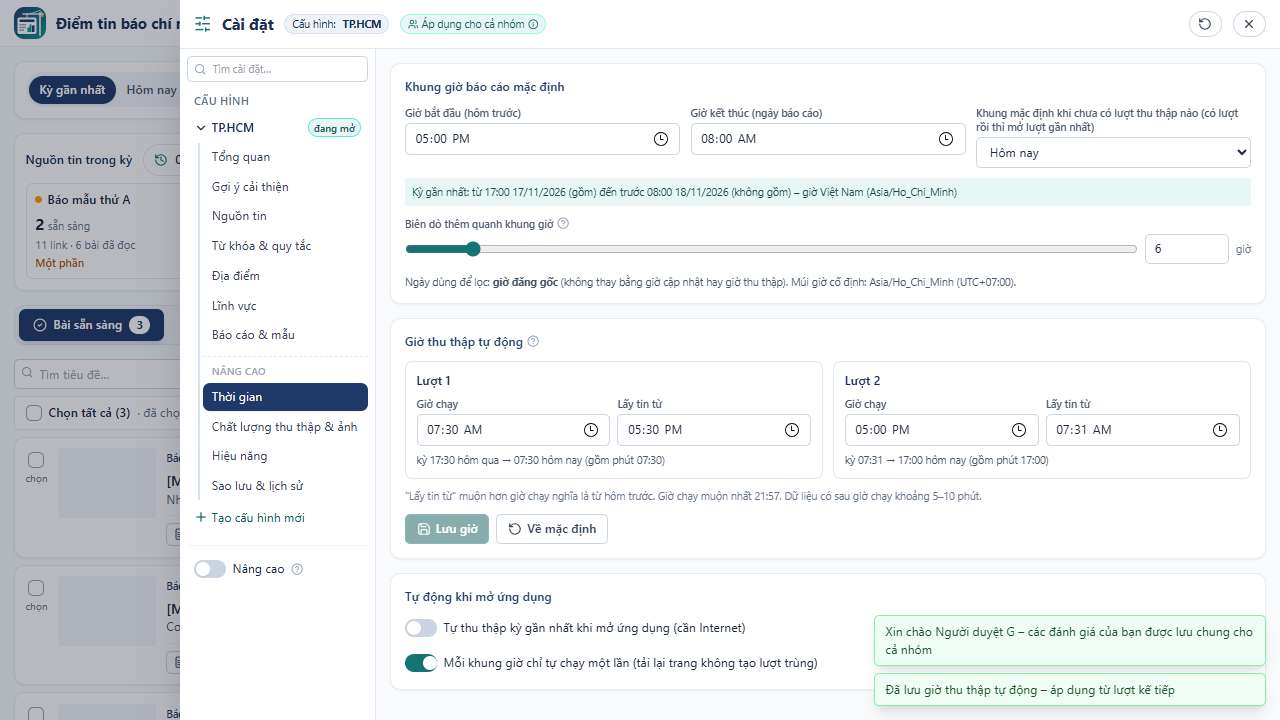
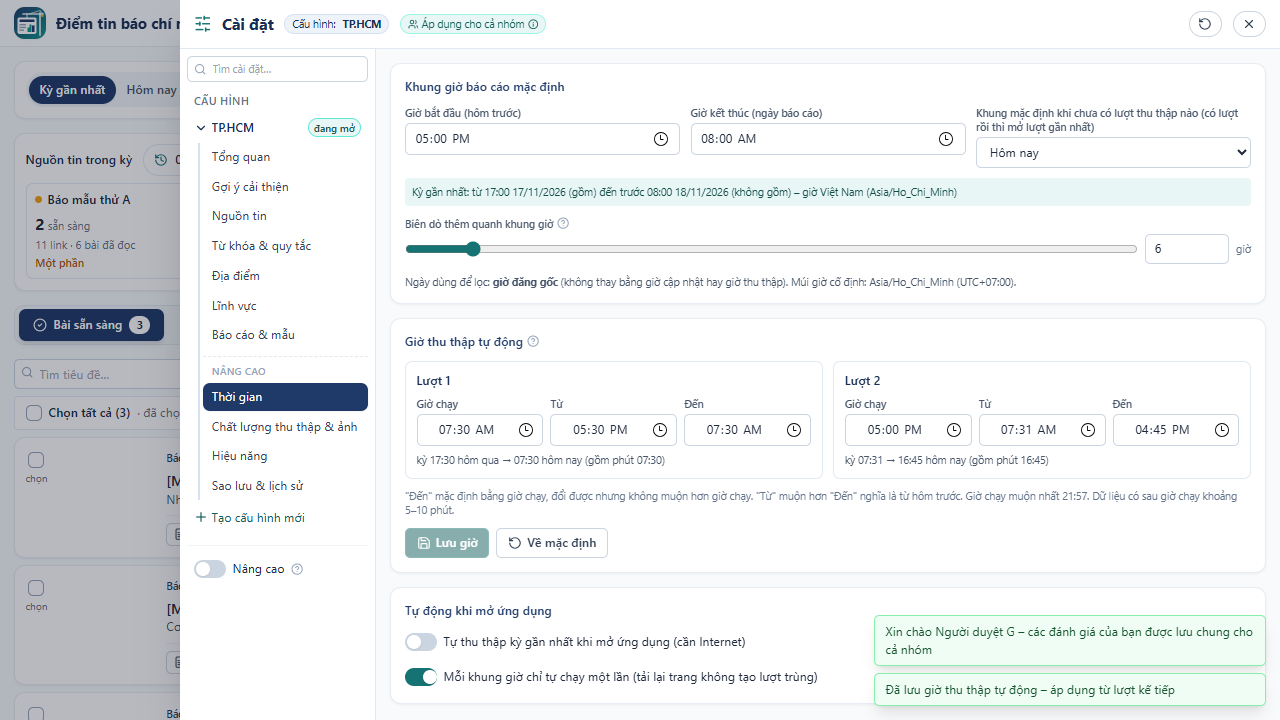
Automatic times: own "Đến" (window end, follows the run time until changed); clearer "Đổi giờ" button; fields fit on a phone

diff --git a/web/src/Settings.tsx b/web/src/Settings.tsx
@@ -660,12 +660,14 @@ function TimePanel({ s, up }: { s: Settings; up: Up }) {
 function ScheduleTimesSection() {
   const shared = api.shared!;
   const toast = useToast();
-  const [times, setTimes] = useState<Record<ScheduleSlotId, { at: string; from: string }> | null>(null);
+  type T = { at: string; from: string; to: string };
+  const [times, setTimes] = useState<Record<ScheduleSlotId, T> | null>(null);
   const [saved, setSaved] = useState('');
   const [busy, setBusy] = useState(false);
   const [err, setErr] = useState('');
   const fromProfile = (st?: ScheduleTimes) => {
-    const v = Object.fromEntries(slotsFor(st).map((s) => [s.id, { at: s.at, from: s.from.time }])) as Record<ScheduleSlotId, { at: string; from: string }>;
+    // "Đến" shows the stored end, else the run time (the default afternoon window ends at 16:30 too)
+    const v = Object.fromEntries(slotsFor(st).map((s) => [s.id, { at: s.at, from: s.from.time, to: st?.[s.id]?.to || s.at }])) as Record<ScheduleSlotId, T>;
     setTimes(v);
     setSaved(JSON.stringify(v));
   };
@@ -689,22 +691,35 @@ function ScheduleTimesSection() {
       setBusy(false);
     }
   };
-  const isDefault = SCHEDULE_SLOTS.every((d) => times[d.id].at === d.at && times[d.id].from === d.from.time);
+  const isDefault = SCHEDULE_SLOTS.every((d) => times[d.id].at === d.at && times[d.id].from === d.from.time && times[d.id].to === d.at);
+  const set = (id: ScheduleSlotId, k: keyof T, v: string) => {
+    const cur = times[id];
+    // "Đến" follows the run time until it is changed by hand
+    setTimes({ ...times, [id]: k === 'at' && cur.to === cur.at ? { ...cur, at: v, to: v } : { ...cur, [k]: v } });
+  };
+  const timeField = (id: ScheduleSlotId, k: keyof T, label: string) => (
+    <label className="block min-w-0">
+      <span className="mb-1 block text-xs font-medium text-slate-600">{label}</span>
+      <input className="input w-full min-w-0 px-2 text-center" type="time" aria-label={`${SLOT_NAMES[id]} – ${label.toLowerCase()}`} value={times[id][k]} max={k === 'at' ? LATEST_RUN : undefined} onChange={(e) => set(id, k, e.target.value)} />
+    </label>
+  );
   return (
     <Section title="Giờ thu thập tự động" help="Máy chủ tự thu thập vào các giờ này cho cấu hình đang chọn (bật/tắt từng lượt bằng công tắc Tự động ở trang chính). Áp dụng cho cả nhóm.">
-      <div className="grid gap-3 md:grid-cols-2" data-testid="schedule-times">
+      <div className="grid gap-3 lg:grid-cols-2" data-testid="schedule-times">
         {SCHEDULE_SLOTS.map((d, i) => (
-          <div key={d.id} className="rounded-lg border border-slate-200 bg-white p-3">
+          <div key={d.id} className="min-w-0 rounded-lg border border-slate-200 bg-white p-3">
             <div className="mb-2 text-sm font-semibold text-navy-800">{SLOT_NAMES[d.id]}</div>
-            <div className="grid grid-cols-2 gap-2">
-              <Field label="Giờ chạy"><input className="input" type="time" aria-label={`${SLOT_NAMES[d.id]} – giờ chạy`} value={times[d.id].at} max={LATEST_RUN} onChange={(e) => setTimes({ ...times, [d.id]: { ...times[d.id], at: e.target.value } })} /></Field>
-              <Field label="Lấy tin từ"><input className="input" type="time" aria-label={`${SLOT_NAMES[d.id]} – lấy tin từ`} value={times[d.id].from} onChange={(e) => setTimes({ ...times, [d.id]: { ...times[d.id], from: e.target.value } })} /></Field>
+            {/* one row when there is room, one field per row on a phone */}
+            <div className="grid grid-cols-[repeat(auto-fit,minmax(7.5rem,1fr))] gap-2">
+              {timeField(d.id, 'at', 'Giờ chạy')}
+              {timeField(d.id, 'from', 'Từ')}
+              {timeField(d.id, 'to', 'Đến')}
             </div>
             <p className="mt-2 text-xs text-slate-600">{preview[i]!.label}</p>
           </div>
         ))}
       </div>
-      {problem ? <p className="text-xs text-red-700">{problem}</p> : <p className="text-xs text-slate-500">"Lấy tin từ" muộn hơn giờ chạy nghĩa là từ hôm trước. Giờ chạy muộn nhất {LATEST_RUN}. Dữ liệu có sau giờ chạy khoảng 5–10 phút.</p>}
+      {problem ? <p className="text-xs text-red-700">{problem}</p> : <p className="text-xs text-slate-500">"Đến" mặc định bằng giờ chạy, đổi được nhưng không muộn hơn giờ chạy. "Từ" muộn hơn "Đến" nghĩa là từ hôm trước. Giờ chạy muộn nhất {LATEST_RUN}. Dữ liệu có sau giờ chạy khoảng 5–10 phút.</p>}
       <div className="flex flex-wrap gap-2">
         <button className="btn-teal" disabled={busy || !!problem || JSON.stringify(times) === saved} onClick={() => void save(times)}>
           <Save className="h-4 w-4" /> {busy ? 'Đang lưu…' : 'Lưu giờ'}

diff --git a/tests/ui-live/review.spec.ts b/tests/ui-live/review.spec.ts
@@ -117,23 +117,41 @@ test('automatic times are changed in Settings (not fixed at 08:00 / 16:30), show
   const box = dlg.getByTestId('schedule-times');
   await expect(box.getByLabel('Lượt 1 – giờ chạy')).toHaveValue('08:00');
   await box.getByLabel('Lượt 1 – giờ chạy').fill('07:30');
-  await box.getByLabel('Lượt 1 – lấy tin từ').fill('17:30');
+  await expect(box.getByLabel('Lượt 1 – đến')).toHaveValue('07:30'); // "Đến" follows the run time
+  await box.getByLabel('Lượt 1 – từ').fill('17:30');
   await box.getByLabel('Lượt 2 – giờ chạy').fill('17:00');
-  await box.getByLabel('Lượt 2 – lấy tin từ').fill('07:31');
+  await box.getByLabel('Lượt 2 – từ').fill('07:31');
+  await box.getByLabel('Lượt 2 – đến').fill('16:45'); // changed by hand
   await expect(box).toContainText('kỳ 17:30 hôm qua → 07:30 hôm nay');
+  await expect(box).toContainText('kỳ 07:31 → 16:45 hôm nay (gồm phút 16:45)');
+  await box.getByLabel('Lượt 2 – đến').fill('17:30');
+  await expect(dlg.getByText(/"Đến" không được muộn hơn giờ chạy/)).toBeVisible();
+  await box.getByLabel('Lượt 2 – đến').fill('16:45');
   // invalid: same run time → save disabled with the reason
-  await box.getByLabel('Lượt 2 – giờ chạy').fill('07:30');
+  await box.getByLabel('Lượt 1 – giờ chạy').fill('17:00'); // its "Đến" follows (still untouched)
   await expect(dlg.getByText('Hai lượt không được trùng giờ chạy')).toBeVisible();
   await expect(dlg.getByRole('button', { name: 'Lưu giờ' })).toBeDisabled();
-  await box.getByLabel('Lượt 2 – giờ chạy').fill('17:00');
+  await box.getByLabel('Lượt 1 – giờ chạy').fill('07:30');
+  await expect(box.getByLabel('Lượt 1 – đến')).toHaveValue('07:30');
   await dlg.getByRole('button', { name: 'Lưu giờ' }).click();
   await expect(page.getByText(/Đã lưu giờ thu thập tự động/)).toBeVisible();
   const st = await (await request.get('http://127.0.0.1:5181/status')).json();
-  expect(st.profiles.find((p: { id: string }) => p.id === 'hcm').scheduleTimes).toEqual({ morning: { at: '07:30', from: '17:30' }, afternoon: { at: '17:00', from: '07:31' } });
+  expect(st.profiles.find((p: { id: string }) => p.id === 'hcm').scheduleTimes).toEqual({ morning: { at: '07:30', from: '17:30' }, afternoon: { at: '17:00', from: '07:31', to: '16:45' } });
   await page.screenshot({ path: 'docs/screenshots/web-schedule-times.png' });
+  // phone: the three time fields fit inside each card
+  await page.setViewportSize({ width: 390, height: 844 });
+  for (const b of await box.locator('input[type=time]').all()) {
+    const r = (await b.boundingBox())!;
+    const card = (await box.boundingBox())!;
+    expect(r.x + r.width).toBeLessThanOrEqual(card.x + card.width + 1);
+  }
+  await box.scrollIntoViewIfNeeded();
+  await box.screenshot({ path: 'docs/screenshots/web-schedule-times-phone.png' });
+  await page.setViewportSize({ width: 1280, height: 720 });
   await dlg.getByRole('button', { name: 'Đóng cài đặt' }).click();
   await expect(strip.getByLabel('Tự động lúc 07:30')).toBeVisible();
   await expect(strip.getByLabel('Tự động lúc 17:00')).toBeVisible();
+  await strip.screenshot({ path: 'docs/screenshots/web-edit-times-button.png' });
   // back to the defaults
   await strip.getByTestId('edit-times').click();
   await dlg.getByRole('button', { name: 'Về mặc định' }).click();

diff --git a/src/domain/schedule.ts b/src/domain/schedule.ts
@@ -25,8 +25,11 @@ export const SCHEDULE_SLOTS: readonly ScheduleSlot[] = [
 ];
 export const SLOT_NAMES: Record<ScheduleSlotId, string> = { morning: 'Lượt 1', afternoon: 'Lượt 2' };
 export type ScheduleState = Partial<Record<ScheduleSlotId, boolean>>;
-/** times changed in Settings: run time + start of the window (the window ends at the run time, minute included) */
-export type ScheduleTimes = Partial<Record<ScheduleSlotId, { at: string; from: string }>>;
+/**
+ * times changed in Settings: run time + window start + window end ("Đến", minute included; unset = the run time).
+ * The start is on the day before when it is not earlier than the end.
+ */
+export type ScheduleTimes = Partial<Record<ScheduleSlotId, { at: string; from: string; to?: string }>>;
 
 const VN_MS = 7 * 3600_000;
 const HHMM = /^([01]\d|2[0-3]):[0-5]\d$/;
@@ -39,12 +42,14 @@ export const LATEST_RUN = '21:57';
 export function slotsFor(times?: ScheduleTimes | null): ScheduleSlot[] {
   return SCHEDULE_SLOTS.map((d) => {
     const t = times?.[d.id];
-    if (!t || (t.at === d.at && t.from === d.from.time)) return d;
-    const fromDay = minutesOf(t.from) >= minutesOf(t.at) ? -1 : 0;
-    const toM = minutesOf(t.at) + 1; // the run minute is included, like the default 08:00 window
+    if (!t) return d;
+    const end = t.to || t.at;
+    if (t.at === d.at && t.from === d.from.time && end === d.at) return d;
+    const fromDay = minutesOf(t.from) >= minutesOf(end) ? -1 : 0;
+    const toM = minutesOf(end) + 1; // the end minute is included, like the default 08:00 window
     return {
       id: d.id, at: t.at, from: { day: fromDay, time: t.from }, to: { day: 0, time: hhmmOf(toM) },
-      label: `kỳ ${t.from}${fromDay ? ' hôm qua' : ''} → ${t.at} hôm nay (gồm phút ${t.at})`,
+      label: `kỳ ${t.from}${fromDay ? ' hôm qua' : ''} → ${end} hôm nay (gồm phút ${end})`,
     };
   });
 }
@@ -55,9 +60,11 @@ export function validateTimes(times: ScheduleTimes): string | null {
   for (const d of SCHEDULE_SLOTS) {
     const t = times[d.id];
     if (!t) continue;
-    if (!HHMM.test(t.at) || !HHMM.test(t.from)) return `${SLOT_NAMES[d.id]}: giờ phải có dạng HH:mm`;
+    const end = t.to || t.at;
+    if (!HHMM.test(t.at) || !HHMM.test(t.from) || !HHMM.test(end)) return `${SLOT_NAMES[d.id]}: giờ phải có dạng HH:mm`;
     if (minutesOf(t.at) > minutesOf(LATEST_RUN)) return `${SLOT_NAMES[d.id]}: giờ chạy muộn nhất là ${LATEST_RUN}`;
-    if (t.at === t.from) return `${SLOT_NAMES[d.id]}: giờ bắt đầu kỳ phải khác giờ chạy`;
+    if (minutesOf(end) > minutesOf(t.at)) return `${SLOT_NAMES[d.id]}: "Đến" không được muộn hơn giờ chạy (lúc chạy chưa có tin đó)`;
+    if (end === t.from) return `${SLOT_NAMES[d.id]}: "Từ" phải khác "Đến"`;
     ats.push(t.at);
   }
   if (new Set(ats).size !== ats.length) return 'Hai lượt không được trùng giờ chạy';

diff --git a/web/src/App.tsx b/web/src/App.tsx
@@ -1,4 +1,4 @@
-import { Activity, AlarmClock, AlertTriangle, Archive, ArchiveRestore, HelpCircle, History, Lightbulb, ArrowDown, ArrowRight, ArrowUp, BarChart3, CalendarClock, Check, Inbox, LogIn, LogOut, MapPin, QrCode, CheckCircle2, ChevronDown, Download, ExternalLink, FileText, Play, RefreshCw, Search, Settings as Cog, Square, Trash2, Undo2, X } from 'lucide-react';
+import { Activity, AlarmClock, AlertTriangle, Archive, ArchiveRestore, HelpCircle, History, Lightbulb, ArrowDown, ArrowRight, ArrowUp, BarChart3, CalendarClock, Clock3, Check, Inbox, LogIn, LogOut, MapPin, QrCode, CheckCircle2, ChevronDown, Download, ExternalLink, FileText, Play, RefreshCw, Search, Settings as Cog, Square, Trash2, Undo2, X } from 'lucide-react';
 import { useCallback, useEffect, useMemo, useState, useRef, type ReactNode } from 'react';
 import { suggestAssignment } from '../../src/domain/assignment';
 import { ASSESSMENT_LABEL } from '../../src/domain/classify';
@@ -2338,8 +2338,14 @@ function ServerStrip({ server, profileId, remote, onToggle, onEditTimes }: { ser
         {slots.map((s) => (
           <Switch key={s.id} label={s.at} title={`${s.at} – ${s.label}`} ariaLabel={`Tự động lúc ${s.at}`} checked={!!prof?.schedule?.[s.id]} disabled={!server.collectEnabled} onChange={(on) => onToggle(s, on)} />
         ))}
-        <button type="button" className="text-xs font-medium text-teal-700 underline-offset-2 hover:underline" onClick={onEditTimes} data-testid="edit-times" title="Đổi giờ chạy và khung giờ lấy tin của từng lượt (Cài đặt › Thời gian)">
-          Đổi giờ
+        <button
+          type="button"
+          className="inline-flex min-h-[34px] items-center gap-1.5 rounded-full border border-teal-300 bg-teal-50 px-3.5 py-1.5 text-sm font-semibold text-teal-800 shadow-sm transition hover:border-teal-400 hover:bg-teal-100 active:scale-[0.97] focus:outline-none focus-visible:ring-2 focus-visible:ring-teal-400"
+          onClick={onEditTimes}
+          data-testid="edit-times"
+          title="Đổi giờ chạy và khung giờ lấy tin của từng lượt (Cài đặt › Thời gian)"
+        >
+          <Clock3 className="h-4 w-4" /> Đổi giờ
         </button>
       </div>
       <span className="text-xs text-slate-500" data-testid="auto-info" title={next ? 'Dữ liệu có sau khoảng 5–10 phút; máy chủ bận thì tự thử lại' : 'Chỉ thu thập khi có người bấm Thu thập'}>

diff --git a/tests/schedule.test.ts b/tests/schedule.test.ts
@@ -35,11 +35,21 @@ describe('times changed in Settings (19/11/2026)', () => {
     expect(dueSlots(at('2026-11-19T16:32'), s)).toEqual([]);
     expect(label(nextRun({ morning: true, afternoon: true }, at('2026-11-19T07:40'), ['morning'], s))).toBe('17:00 2026-11-19');
   });
+  it('"Đến" changed by hand: the window ends there (minute included), the run time stays', () => {
+    const s = slotsFor({ afternoon: { at: '16:00', from: '08:05', to: '15:45' } });
+    expect(s[1]).toMatchObject({ at: '16:00', label: 'kỳ 08:05 → 15:45 hôm nay (gồm phút 15:45)' });
+    expect(slotWindow(s[1]!, at('2026-11-19T16:05'))).toEqual({ from: '2026-11-19T08:05+07:00', to: '2026-11-19T15:46+07:00' });
+    // "Từ" later than "Đến" → yesterday
+    expect(slotWindow(slotsFor({ morning: { at: '08:00', from: '16:05', to: '07:30' } })[0]!, at('2026-11-19T08:05')).from).toBe('2026-11-18T16:05+07:00');
+    expect(slotsFor({ morning: { at: '08:00', from: '17:00', to: '08:00' } })).toEqual(SCHEDULE_SLOTS);
+    expect(validateTimes({ afternoon: { at: '16:00', from: '08:05', to: '16:30' } })).toMatch(/không được muộn hơn giờ chạy/);
+    expect(validateTimes({ afternoon: { at: '16:00', from: '15:00', to: '15:00' } })).toMatch(/"Từ" phải khác "Đến"/);
+  });
   it('validation', () => {
     expect(validateTimes({ morning: { at: '07:30', from: '17:30' } })).toBeNull();
     expect(validateTimes({ morning: { at: '7:30', from: '17:30' } })).toMatch(/HH:mm/);
     expect(validateTimes({ morning: { at: '23:00', from: '17:30' } })).toMatch(/muộn nhất/);
-    expect(validateTimes({ morning: { at: '09:00', from: '09:00' } })).toMatch(/khác giờ chạy/);
+    expect(validateTimes({ morning: { at: '09:00', from: '09:00' } })).toMatch(/phải khác "Đến"/);
     expect(validateTimes({ morning: { at: '09:00', from: '17:00' }, afternoon: { at: '09:00', from: '08:00' } })).toMatch(/trùng/);
   });
 });

diff --git a/tests/review-worker.test.ts b/tests/review-worker.test.ts
@@ -161,7 +161,7 @@ describe('shared review worker', () => {
       expect((await setTimes({ morning: { at: '07:30', from: '17:30' } }, 'wrong')).status).toBe(401);
       expect((await setTimes({ morning: { at: '23:30', from: '17:30' } })).status).toBe(400);
       expect((await setTimes('x')).status).toBe(400);
-      expect((await setTimes({ morning: { at: '07:30', from: '17:30' } })).status).toBe(200);
+      expect((await setTimes({ morning: { at: '07:30', from: '17:30', to: '07:30' } })).status).toBe(200); // "Đến" = run time is not stored
       expect(await scheduledCollect(e, gh, at('2026-11-19T08:02'))).toMatchObject({ result: 'dispatched', slot: '07:30' });
       expect(dispatched()[0]).toMatchObject({ slot: '07:30', from: '2026-11-18T17:30+07:00', to: '2026-11-19T07:31+07:00' });
       const st = (await (await handle(new Request('https://w.example/status', { headers: { origin: ORIGIN } }), e, gh)).json()) as { profiles: Array<{ scheduleTimes: object; scheduleDone: string[] }> };

diff --git a/cloud/review-worker/src/handler.ts b/cloud/review-worker/src/handler.ts
@@ -755,8 +755,9 @@ async function route(req: Request, env: Env, f: Fetch): Promise<Response> {
     if (!b.times || typeof b.times !== 'object' || Array.isArray(b.times)) return json({ error: 'Thiếu giờ lịch' }, 400, h);
     const times: ScheduleTimes = {};
     for (const s of SCHEDULE_SLOTS) {
-      const t = (b.times as Record<string, unknown>)[s.id] as { at?: unknown; from?: unknown } | undefined;
-      if (t) times[s.id] = { at: String(t.at ?? ''), from: String(t.from ?? '') };
+      const t = (b.times as Record<string, unknown>)[s.id] as { at?: unknown; from?: unknown; to?: unknown } | undefined;
+      // "Đến" equal to the run time is not stored (it follows the run time)
+      if (t) times[s.id] = { at: String(t.at ?? ''), from: String(t.from ?? ''), ...(t.to && t.to !== t.at ? { to: String(t.to) } : {}) };
     }
     const bad = validateTimes(times);
     if (bad) return json({ error: bad }, 400, h);
